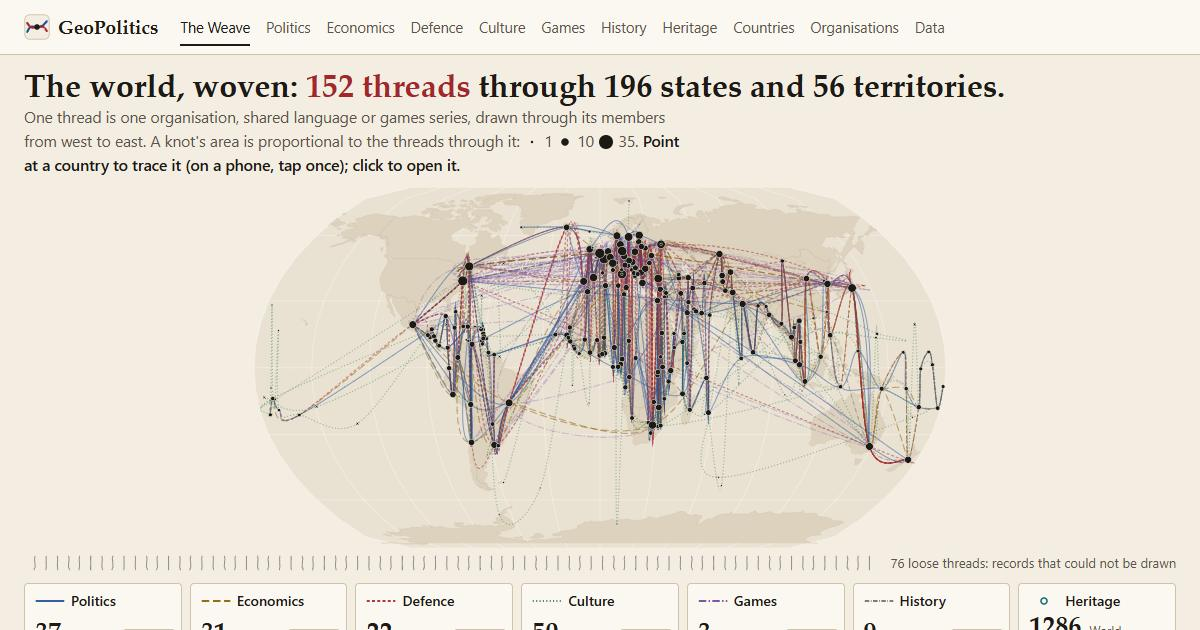
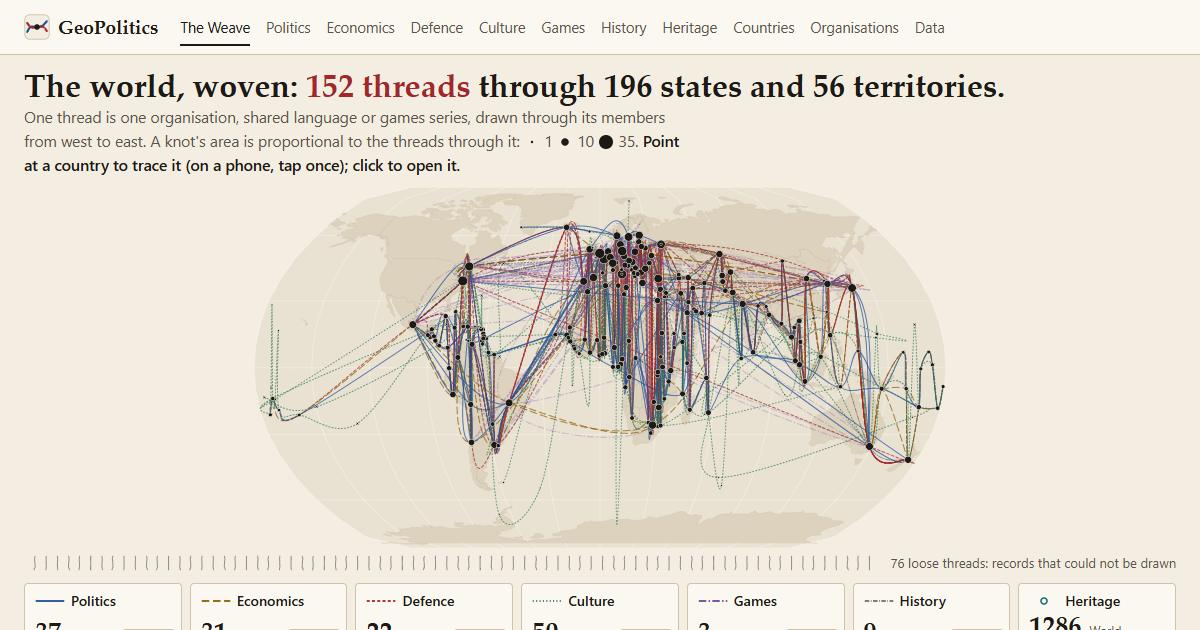
S4 push: bolder threads (1.45 px, 0.72 opacity), measured

Changed region(s): [[0.3083, 0.3619, 0.7708, 0.7238], [0.2158, 0.6032, 0.2775, 0.6635], [0.2775, 0.573, 0.3083, 0.6333]]

diff --git a/_src/style.css b/_src/style.css
@@ -52,7 +52,7 @@ code { font-size: .9em; }
 .sea { fill: var(--sea); }
 .grat { fill: none; stroke: var(--paper); stroke-width: .6; }
 .land { fill: var(--land); stroke: var(--border); stroke-width: .35; fill-rule: evenodd; }
-.th { fill: none; stroke-width: 1.15; opacity: .62; stroke-linecap: round; transition: opacity .15s; }
+.th { fill: none; stroke-width: 1.45; opacity: .72; stroke-linecap: round; transition: opacity .15s; }
 .d-politics { stroke: var(--politics); }
 .d-economics { stroke: var(--economics); stroke-dasharray: 10 5; }
 .d-defence { stroke: var(--defence); stroke-dasharray: 4 3; }

diff --git a/site/style.css b/site/style.css
@@ -52,7 +52,7 @@ code { font-size: .9em; }
 .sea { fill: var(--sea); }
 .grat { fill: none; stroke: var(--paper); stroke-width: .6; }
 .land { fill: var(--land); stroke: var(--border); stroke-width: .35; fill-rule: evenodd; }
-.th { fill: none; stroke-width: 1.15; opacity: .62; stroke-linecap: round; transition: opacity .15s; }
+.th { fill: none; stroke-width: 1.45; opacity: .72; stroke-linecap: round; transition: opacity .15s; }
 .d-politics { stroke: var(--politics); }
 .d-economics { stroke: var(--economics); stroke-dasharray: 10 5; }
 .d-defence { stroke: var(--defence); stroke-dasharray: 4 3; }
